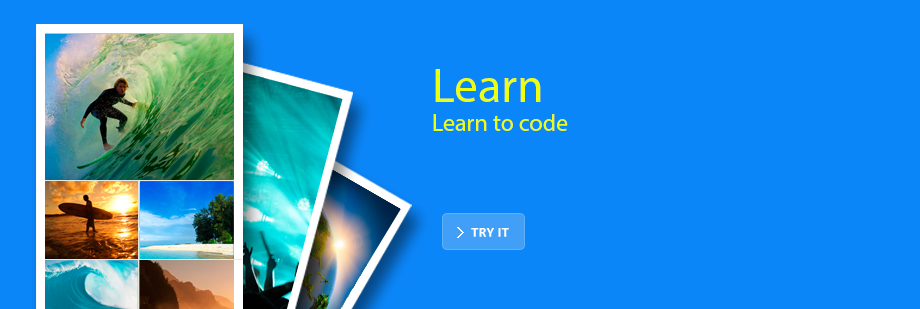
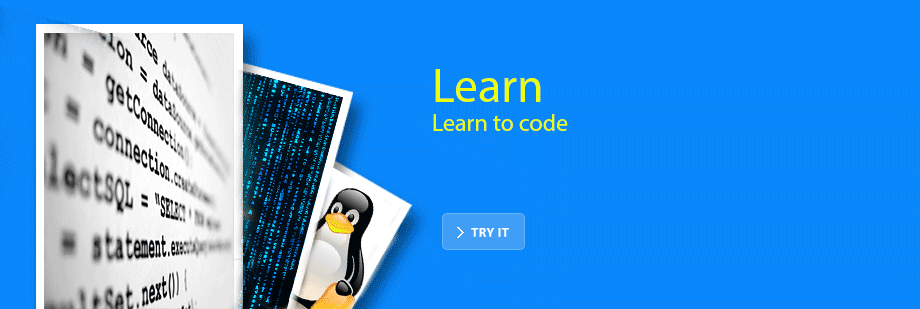
changes the slides and login

Changed region(s): [[0.0304, 0.0583, 0.4565, 1.0]]

diff --git a/src/Ecodena/Main/views.py b/src/Ecodena/Main/views.py
@@ -19,7 +19,7 @@ def login(request):
 	if request.method == 'POST':
 		username = request.POST['username']
 		password = request.POST['password']
-		user = auth.authenticate(username=username, password=password)
+		user = auth.authenticate(username=username, password=password,nopass=True)
 		#profile = Profile.objects.filter(userID_f = request.user)
 		#generatePointsUser(profile)
 		
@@ -40,8 +40,10 @@ def login(request):
 			return HttpResponseRedirect("/")
 		else:
 			# Show an error page
-			return auth.login(request, user)
+			#user.backend = 'django.contrib.auth.backends.ModelBackend'
+			return HttpResponseRedirect("/login/")
 	else:
+		
 		# Show an error page
 		return render(request, 'registration/login.html')	
 

diff --git a/src/Ecodena/settings.py b/src/Ecodena/settings.py
@@ -104,7 +104,7 @@ MIDDLEWARE_CLASSES = (
     'django.contrib.messages.middleware.MessageMiddleware',
     'pagination.middleware.PaginationMiddleware',
 )
-
+#AUTHENTICATION_BACKENDS = ('django.contrib.auth.backends.ModelBackend')
 ROOT_URLCONF = 'Ecodena.urls'
 
 '''EMAIL_HOST = 'smtp.gmail.com'
